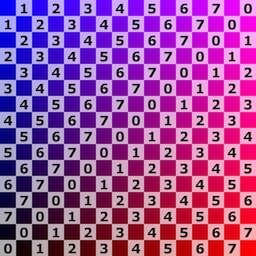
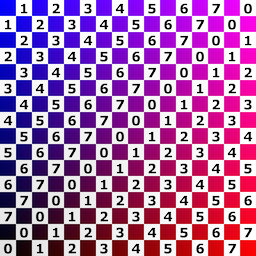
fully working version
Still needs code cleanup / refinement / and 'least reasonable improvement to OOP (i.e. modularity, etc.); but it works (at least local - do check why GH pages breaks...)

diff --git a/PanAndZoomUtil/main.js b/PanAndZoomUtil/main.js
@@ -1,133 +1,236 @@
 
 
+var CanvConfig = {WIDE:1280, TALL:768};
+CanvConfig.H_WIDE = CanvConfig.WIDE/2;
+CanvConfig.H_TALL = CanvConfig.TALL/2;
 
 var PZUtilButtons = {};
-var PZUtilConfig = {trans:{x:0, y:0}, scale:{idx:3, fac:-1, vals:[0.125, 0.25, 0.5, 1, 2, 4, 8, 16]}};
-PZUtilConfig.scale.fac = PZUtilConfig.scale.vals[PZUtilConfig.scale.idx];
+var PZUtilLabels  = {};
+var PZUtilConfig = {
+  trans:{x:0, y:0, delta:4}, 
+  scale:{factor:1, min:0.05, max:16, delta:0.05},
+
+  onArrowButtonPressed(dir){
+    switch(dir){
+      case 'N' : this.trans.y += this.trans.delta; break;
+      case 'S' : this.trans.y -= this.trans.delta; break;
+      case 'E' : this.trans.x -= this.trans.delta; break;
+      case 'W' : this.trans.x += this.trans.delta; break;
+      case 'NE': this.trans.x -= this.trans.delta; this.trans.y += this.trans.delta; break;
+      case 'SE': this.trans.x -= this.trans.delta; this.trans.y -= this.trans.delta; break;
+      case 'NW': this.trans.x += this.trans.delta; this.trans.y += this.trans.delta; break;
+      case 'SW': this.trans.x += this.trans.delta; this.trans.y -= this.trans.delta; break;
+      case 'RO': this.trans.x  = 0;                this.trans.y  = 0; break;
+    }
+  },
+
+  onZoomButtonPressed(dir){
+     switch(dir){
+      case '+' : this.scale.factor = Math.min(this.scale.max, Math.round((this.scale.factor+=this.scale.delta)*100)/100); break;
+      case '-' : this.scale.factor = Math.max(this.scale.min, Math.round((this.scale.factor-=this.scale.delta)*100)/100); break;
+      case '1' : this.scale.factor = 1; break;
+    }
+  },
+
+  reverseControls(){this.trans.delta *= -1;},
+  transValToString(){return "PAN OFFSET: ("+this.trans.x+","+this.trans.y+")";},
+  scaleValToString(){return "SCALE FACTOR: ["+this.scale.factor+"x]";}
+};
+PZUtilConfig.onZoomButtonPressed('1');
 
 ///*>>> UNCOMMENT ONLY WHEN SERVER IS TURNED ON!
-var ImageDisp = {gridEIS:null, gridUV:null, display:function(i,x,y,w=-1,t,d=null){switch(w==-1){case true: image(this[i],x,y);return; case false: image(this[i],x,y,w,t);}}}
-function preload(){ImageDisp.gridEIS = loadImage('testGrid.png'); ImageDisp.gridUV = loadImage('testGridUV.png');}
+var ImageDisp = {gridEIS:null, gridUV:null, display:function(i,x,y,w=-1,t,d=null){imageMode(CENTER,CENTER);switch(w==-1){case true: image(this[i],x,y);return; case false: image(this[i],x,y,w,t);}}}
+function preload(){ImageDisp.gridEIS = loadImage('testGridEIS_dark.png'); ImageDisp.gridUV = loadImage('testGridUV_dark.png');}
 //*/
 
 function setup(){
-  createCanvas(1280,768).parent("viz");
-  textFont('Arial');
+  createCanvas(CanvConfig.WIDE,CanvConfig.TALL).parent("viz");
+  textFont('Arial'); textStyle(BOLD);
   initPZUtilButtons();
-
-
+  initPZUtilLabels();
 }
 
 
 
 function draw(){
 
-  //>>> RENDER CALLS 
+  //>>> Pre-Transform Update Calls for PZUtil Objects
+  handleKeyDown();  
+  if(mouseInCanvas()){
+    handleMouseDown();
+    PZUtilLabels.array.forEach((l)=>l.update())
+  };
+
+  //====================================================================
+  //>>> RENDER CALLS
+  //====================================================================
+
+  // Pre-Transform Canvas Util Calls
   background("#181818FF");
   drawCanvasBorder();
-  //drawGrid(32,"#FFFFFF80",1);
-  //drawCanvasCrosshair();
+  drawGrid(32,"#FFFFFF80",1);
 
+  // On-Transform Render Calls
   push();drawViaPZTransform();pop();
 
+  //>>> Post-Transform Render Calls for PZUtil UIObjects
+  if(mouseInCanvas()){
+    PZUtilButtons.panButtons.forEach((b)=>b.render());
+    PZUtilButtons.zoomButtons.forEach((b)=>b.render());
+    PZUtilLabels.array.forEach((l)=>l.render());
+  };
 
-    scale(PZUtilConfig.scale.fac, PZUtilConfig.scale.fac);
-
-    //>>> RENDER CALLS (PZ-INDEPENDENT [PRE-T'FORM])
-
-    noFill(); stroke(255); ellipse(0,0,100,100);
-
-    ImageDisp.display('gridUV',0,0,1280,768);
-
-  //>>> RENDER CALLS (PZ-INDEPENDENT [POST-T'FORM])
-
-  PZUtilButtons.array.forEach((b)=>b.render());
 }
 
 
-//>>> !!! PROGRESS ENDING 9/20/21 !!! <<<
 function drawViaPZTransform(){
   //>>> EFFECT PZ TRANSFORM
-  scale(PZUtilConfig.scale.fac, PZUtilConfig.scale.fac);
+  translate(PZUtilConfig.trans.x+CanvConfig.H_WIDE, PZUtilConfig.trans.y+CanvConfig.H_TALL);
+  scale(PZUtilConfig.scale.factor, PZUtilConfig.scale.factor);
 
   //>>> RENDER CALLS (PZ-INDEPENDENT [PRE-T'FORM])
-
-  noFill(); stroke(255); ellipse(0,0,100,100);
-
-  ImageDisp.display('gridUV',0,0,1280,768);
+  //ImageDisp.display('gridEIS',0,0,1024,1024);
 }
 
 
 
 
-
+function handleMouseDown(){
+  if(mouseInCanvas()&&mouseIsPressed){PZUtilButtons.panButtons.forEach((b)=>b.onMousePressed());}
+}
 
 function mousePressed(){
+  if(mouseInCanvas()){PZUtilButtons.zoomButtons.forEach((b)=>b.onMousePressed());}
   return false;
 }
+
+function mouseWheel(evt){
+  if(!mouseInCanvas()){return;}
+  switch(Math.sign(evt.delta)){
+    case  1: PZUtilConfig.onZoomButtonPressed('-'); return;
+    case -1: PZUtilConfig.onZoomButtonPressed('+'); return;
+  }
+}
+
+function handleKeyDown(){
+  if(keyIsDown(UP_ARROW))   {PZUtilConfig.onArrowButtonPressed('N');}
+  if(keyIsDown(DOWN_ARROW)) {PZUtilConfig.onArrowButtonPressed('S');}
+  if(keyIsDown(LEFT_ARROW)) {PZUtilConfig.onArrowButtonPressed('W');}
+  if(keyIsDown(RIGHT_ARROW)){PZUtilConfig.onArrowButtonPressed('E');}
+
+}
+
+function keyPressed(){
+  if(key=='z'){PZUtilConfig.onZoomButtonPressed('+');}
+  if(key=='x'){PZUtilConfig.onZoomButtonPressed('-');}
+  if(key=='c'){PZUtilConfig.onZoomButtonPressed('1');}
+  if(key=='0'){PZUtilConfig.onArrowButtonPressed('RO');}
+  if(key=='r'){PZUtilConfig.onZoomButtonPressed('1'); PZUtilConfig.onArrowButtonPressed('RO');}  
+}
+
+
 
 
 
 
 function initPZUtilButtons(){
-  let len   = 64;
-  let lenH  = len/2;
-  let mpt   = canvasMidpoint();
-  let b_dim = vec2(len,len);
+  let len  = 64;
+  let lenH = len/2;
+  // endpoint offsets
+  let epX  = width-len;
+  let epY  = height-len;
+  let epX2 = width-(len*2);
+  // midpoint offsets
+  let mpX  = (width/2)-lenH;
+  let mpY  = (height/2)-lenH;
+  let mpX2 = (width/2)-len;
+  let mpY2 = (height/2)-len;    
 
   let vals = {
-    arrow_N:  {char:String.fromCharCode(0x2B06), dim:vec2(b_dim.x, b_dim.y), loc:vec2(mpt.x-lenH, 0)          },
-    arrow_S:  {char:String.fromCharCode(0x2B07), dim:vec2(b_dim.x, b_dim.y), loc:vec2(mpt.x-lenH, height-len) },
-    arrow_E:  {char:String.fromCharCode(0x2B95), dim:vec2(b_dim.x, b_dim.y), loc:vec2(width-len, mpt.y-lenH)  },
-    arrow_W:  {char:String.fromCharCode(0x2B05), dim:vec2(b_dim.x, b_dim.y), loc:vec2(0, mpt.y-lenH)          },
-    arrow_NE: {char:String.fromCharCode(0x2B08), dim:vec2(b_dim.x, b_dim.y), loc:vec2(width-len, 0)           },
-    arrow_SE: {char:String.fromCharCode(0x2B0A), dim:vec2(b_dim.x, b_dim.y), loc:vec2(width-len, height-len)  },
-    arrow_NW: {char:String.fromCharCode(0x2B09), dim:vec2(b_dim.x, b_dim.y), loc:vec2(0, 0)                   },
-    arrow_SW: {char:String.fromCharCode(0x2B0B), dim:vec2(b_dim.x, b_dim.y), loc:vec2(0, height-len)          },
+    arrow_N:  {char:String.fromCharCode(0x2B06), dim:vec2(len, len), loc:vec2(mpX, 0)   },
+    arrow_S:  {char:String.fromCharCode(0x2B07), dim:vec2(len, len), loc:vec2(mpX, epY) },
+    arrow_E:  {char:String.fromCharCode(0x2B95), dim:vec2(len, len), loc:vec2(epX, mpY) },
+    arrow_W:  {char:String.fromCharCode(0x2B05), dim:vec2(len, len), loc:vec2(0,   mpY) },
+    arrow_NE: {char:String.fromCharCode(0x2B08), dim:vec2(len, len), loc:vec2(epX, 0)   },
+    arrow_SE: {char:String.fromCharCode(0x2B0A), dim:vec2(len, len), loc:vec2(epX, epY) },
+    arrow_NW: {char:String.fromCharCode(0x2B09), dim:vec2(len, len), loc:vec2(0,   0)   },
+    arrow_SW: {char:String.fromCharCode(0x2B0B), dim:vec2(len, len), loc:vec2(0,   epY) },
 
-    pan_orig: {char:String.fromCharCode(0x29C8), dim:vec2(b_dim.x*2, b_dim.y*2),   loc:vec2(mpt.x-len, mpt.y-len),    lab:"RESET PAN\nTO  ORIGIN" },
-    zoom_in:  {char:String.fromCharCode(0x2A01), dim:vec2(b_dim.x*2, b_dim.y*1.5), loc:vec2(width-(len*2),(len)),     lab:"ZOOM IN"               },
-    zoom_1x: {char:String.fromCharCode(0x2A00), dim:vec2(b_dim.x*2, b_dim.y*1.5), loc:vec2(width-(len*2),(len*2.5)), lab:"ZOOM RESET"            },
-    zoom_out:  {char:String.fromCharCode(0x2296), dim:vec2(b_dim.x*2, b_dim.y*1.5), loc:vec2(width-(len*2),(len*4)),   lab:"ZOOM OUT"              }
+    pan_orig: {char:String.fromCharCode(0x29C8), dim:vec2(len*2, len*2),   loc:vec2(mpX2, mpY2),     lab:"RESET PAN\nTO  ORIGIN" },
+    zoom_in:  {char:String.fromCharCode(0x2A01), dim:vec2(len*2, len*1.5), loc:vec2(epX2,(len)),     lab:"INC. ZOOM"             },
+    zoom_1x:  {char:String.fromCharCode(0x2A00), dim:vec2(len*2, len*1.5), loc:vec2(epX2,(len*2.5)), lab:"RESET ZOOM"            },
+    zoom_out: {char:String.fromCharCode(0x2296), dim:vec2(len*2, len*1.5), loc:vec2(epX2,(len*4)),   lab:"DEC. ZOOM"             },
+   
   };
 
-  Object.keys(vals).filter((k)=>(k[0]=='a')).forEach((k)=>{PZUtilButtons[k] = new CharBBoxNoLabel(vals[k].loc, vals[k].dim, vals[k].char)});
-  Object.keys(vals).filter((k)=>(k[0]!='a')).forEach((k)=>{PZUtilButtons[k] = new CharBBoxWithLabel(vals[k].loc, vals[k].dim, vals[k].char, vals[k].lab)});
+  Object.keys(vals).filter((k)=>(k[0]=='a')).forEach((k)=>{PZUtilButtons[k] = new ButtonCharOnly(vals[k].loc, vals[k].dim, vals[k].char)});
+  Object.keys(vals).filter((k)=>(k[0]!='a')).forEach((k)=>{PZUtilButtons[k] = new ButtonCharLabel(vals[k].loc, vals[k].dim, vals[k].char, vals[k].lab)});
 
+  PZUtilButtons.panButtons = [
+    PZUtilButtons.arrow_N.bindAction(()=>(PZUtilConfig.onArrowButtonPressed('N'))),
+    PZUtilButtons.arrow_S.bindAction(()=>(PZUtilConfig.onArrowButtonPressed('S'))),
+    PZUtilButtons.arrow_E.bindAction(()=>(PZUtilConfig.onArrowButtonPressed('E'))),
+    PZUtilButtons.arrow_W.bindAction(()=>(PZUtilConfig.onArrowButtonPressed('W'))),
+    PZUtilButtons.arrow_NE.bindAction(()=>(PZUtilConfig.onArrowButtonPressed('NE'))),
+    PZUtilButtons.arrow_SE.bindAction(()=>(PZUtilConfig.onArrowButtonPressed('SE'))),
+    PZUtilButtons.arrow_NW.bindAction(()=>(PZUtilConfig.onArrowButtonPressed('NW'))),
+    PZUtilButtons.arrow_SW.bindAction(()=>(PZUtilConfig.onArrowButtonPressed('SW'))),
+    PZUtilButtons.pan_orig.bindAction(()=>(PZUtilConfig.onArrowButtonPressed('RO')))
+  ];
 
-  PZUtilButtons.array = Object.values(PZUtilButtons);
+  PZUtilButtons.zoomButtons = [
+    PZUtilButtons.zoom_in.bindAction(()=>(PZUtilConfig.onZoomButtonPressed('+'))),
+    PZUtilButtons.zoom_1x.bindAction(()=>(PZUtilConfig.onZoomButtonPressed('1'))),
+    PZUtilButtons.zoom_out.bindAction(()=>(PZUtilConfig.onZoomButtonPressed('-'))),
+  ];
 } // Ends Function initPZUtilButtons
 
 
+function initPZUtilLabels(){
+  let lenW = 256;
+  let lenT = 32;
+  let mptX = width/2;
+  PZUtilLabels["pan"]   = new UILabel(vec2(mptX-32-lenW, 0), vec2(lenW, lenT), "PAN OFFSET: (123,456)").bindCallback(()=>PZUtilConfig.transValToString());
+  PZUtilLabels["scale"] = new UILabel(vec2(mptX+32, 0), vec2(lenW, lenT), "SCALE FACTOR: [2]").bindCallback(()=>PZUtilConfig.scaleValToString());
+  PZUtilLabels.array = Object.values(PZUtilLabels);
+} // Ends Function initPZUtilLabels
 
 
 
 /*======================================================================
-|>>> CharBBox Class Group
+|>>> CharUIObj Class Group
 +=====================================================================*/
 
-/*abstract */ class CharBBox{
-  constructor(pos,dim,char){
+/*abstract*/ class UIObj{
+  constructor(pos, dim){
     this.pos  = pos;
     this.dim  = dim;
     this.dimH = p5.Vector.div(this.dim,2);
     this.midP = p5.Vector.add(this.pos,this.dimH);
     this.endP = p5.Vector.add(this.pos,this.dim);
-    this.symb = char;
     this.initVizVals();
   } // Ends Constructor
 
   //###[ INIT/LOADER FUNCTIONS ]########################################
   initVizVals(){
-    this.fill_bbox = color(0,60,255,64);    
+    this.fill_bbox = color(0,60,255,64);
     this.fill_text = color(255,192);
     this.fill_mAct = color(255); 
-    this.strk_mAct = color(255,128);    
+    this.strk_mAct = color(255,128);
   } // Ends Function initVizVals
 
   //###[ GETTER/TESTER FUNCTIONS ]######################################
   mouseOverMe(){return (mouseX>this.pos.x)&&(mouseY>this.pos.y)&&(mouseX<this.endP.x)&&(mouseY<this.endP.y);}
   mousePressedOverMe(){return mouseIsPressed && this.mouseOverMe();}
+} // Ends 'Abstract' Class UIObj
+
+
+/*abstract*/ class CharButton extends UIObj{
+  constructor(pos, dim, char){
+    super(pos,dim);
+    this.symb = char;
+    this.initVizVals();
+  } // Ends Constructor
 
   //###[ SETTER/BEHAVIOR FUNCTIONS ]####################################
   bindAction(act){this.action = act; return this;}
@@ -136,17 +239,18 @@ function initPZUtilButtons(){
   //###[ RENDER FUNCTIONS ]#############################################
   render(){
     textAlign(CENTER,CENTER); this.renderBBox(); this.renderChar(); 
-    if(this instanceof CharBBoxWithLabel){this.renderLabel();}
+    if(this instanceof ButtonCharLabel){this.renderLabel();}
   } // Ends Function render
 
   renderBBox(){
     fill(this.fill_bbox); noStroke(); rect(this.pos.x,this.pos.y,this.dim.x,this.dim.y);
     if(this.mouseOverMe()){stroke(this.strk_mAct); strokeWeight(4); rect(this.pos.x+2,this.pos.y+2,this.dim.x-4,this.dim.y-4);}   
   } // Ends Function renderBBox
-} // Ends 'Abstract' Class CharBBox
+} // Ends 'Abstract' Class CharButton
 
-class CharBBoxNoLabel extends CharBBox{
-  constructor(pos,dim,char){
+
+class ButtonCharOnly extends CharButton{
+  constructor(pos, dim, char){
     super(pos,dim,char);
     this.yOff = 4;
   } // Ends Constructor
@@ -157,13 +261,15 @@ class CharBBoxNoLabel extends CharBBox{
     if(this.mousePressedOverMe()){fill(this.fill_mAct); strokeWeight(4); stroke(this.strk_mAct);}  
     text(this.symb, this.midP.x, this.midP.y+this.yOff);
   } // Ends Function renderChar
-} // Ends Class CharBBoxNoLabel
+} // Ends Class ButtonCharOnly
 
-class CharBBoxWithLabel extends CharBBox{
-  constructor(pos,dim,char,labl){
+
+class ButtonCharLabel extends CharButton{
+  constructor(pos, dim, char, labl){
     super(pos,dim,char);
     this.midP.y -= this.dim.y*0.15;
     this.yOff  = 48;
+    this.xOff  = 0;
     this.label = labl;
   } // Ends Constructor
 
@@ -175,8 +281,35 @@ class CharBBoxWithLabel extends CharBBox{
   } // Ends Function renderChar
 
   renderLabel(){
-    textSize(16); stroke(this.fill_text); strokeWeight(1.25); fill(this.fill_text);
+    textSize(16); stroke(this.fill_text); strokeWeight(0.5); fill(this.fill_text);
     if(this.mousePressedOverMe()){fill(this.fill_mAct); strokeWeight(2); stroke(this.strk_mAct);}  
-    text(this.label, this.midP.x, this.midP.y+this.yOff);
+    text(this.label, this.midP.x+this.xOff, this.midP.y+this.yOff);
   } // Ends Function renderLabel
-} // Ends Class CharBBoxWithLabel
+} // Ends Class ButtonCharLabel
+
+
+class UILabel extends UIObj{
+  constructor(pos, dim, labTxt=""){
+    super(pos,dim);
+    this.label = labTxt;
+    this.cBack = null;
+    this.yOff  = 0;
+    this.fill_bbox.setAlpha(128);
+  } // Ends Constructor
+
+  bindCallback(cBack){
+    this.cBack = cBack;
+    this.label  = this.cBack();
+    return this;
+  } // Ends Function bindCallback
+
+  update(){
+    if(this.cBack){this.label = this.cBack();}
+  } // Ends Function update
+
+  render(){
+    fill(this.fill_bbox); noStroke(); rect(this.pos.x,this.pos.y,this.dim.x,this.dim.y);
+    if(this.mouseOverMe()){rect(this.pos.x,this.pos.y,this.dim.x,this.dim.y); fill(this.fill_mAct);} else{fill(this.fill_text);}
+    textSize(16); stroke(this.fill_text); strokeWeight(0.5); text(this.label, this.midP.x, this.midP.y+this.yOff);
+  }
+} // Ends Class UILabel
